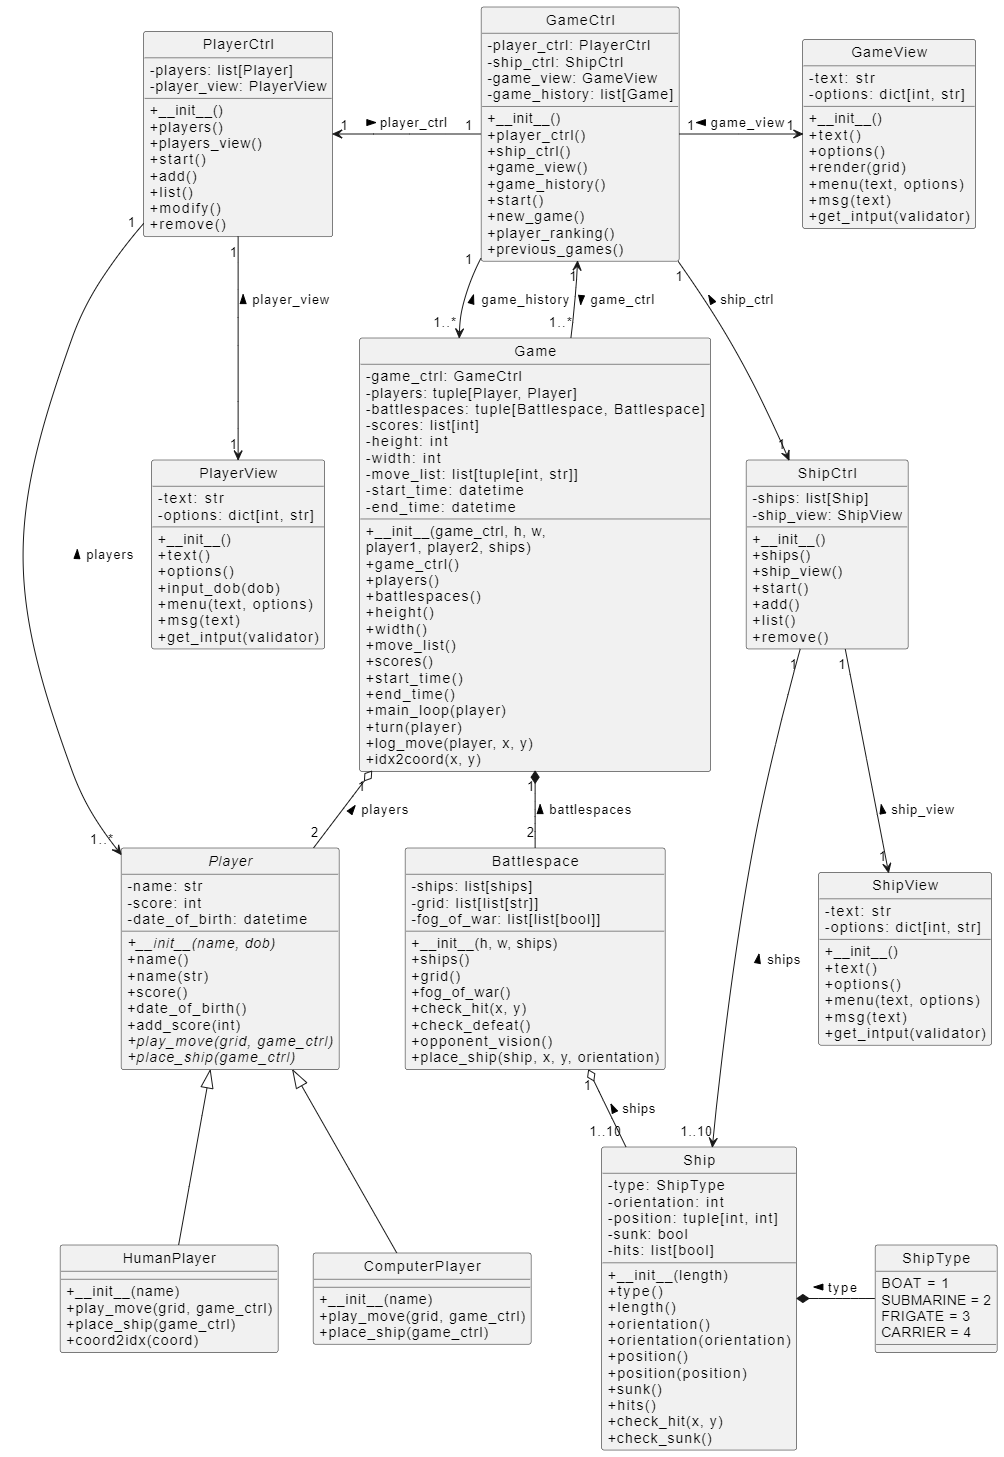
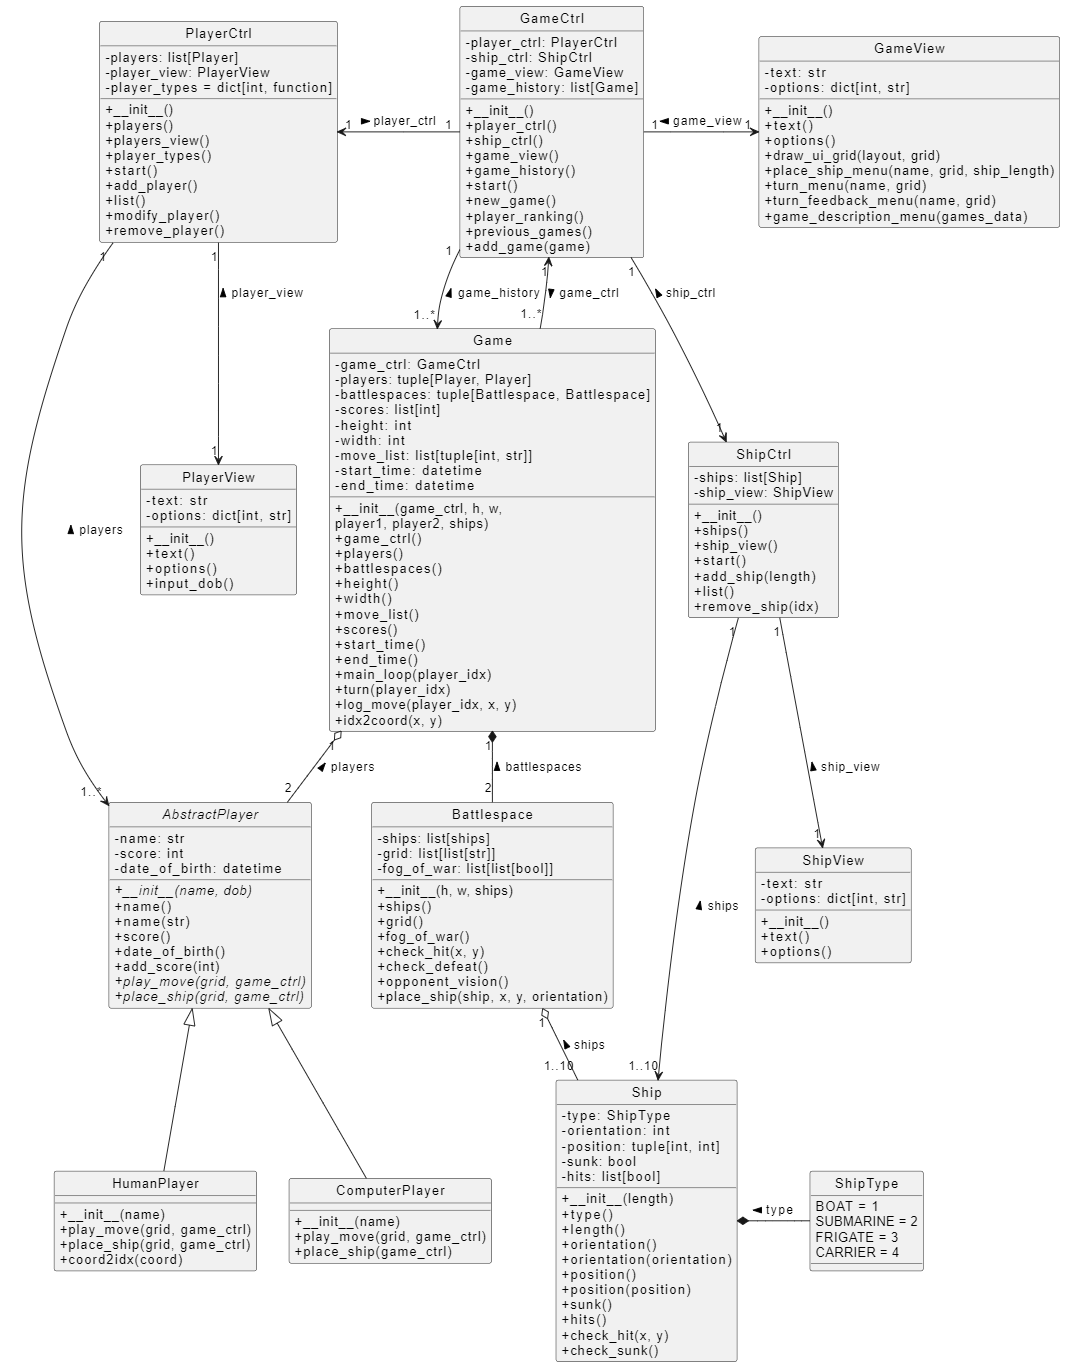
UML atualizado, submetendo

diff --git a/ctrl/playerCtrl.py b/ctrl/playerCtrl.py
@@ -70,7 +70,7 @@ class PlayerCtrl(DAO):
                         "Escolha o jogador a ser modificado:",
                         [p.name for p in self.players])
                     new_name = self.player_view.input("Digite o novo nome do jogador:")
-                    self.modify(old_name, new_name)
+                    self.modify_player(old_name, new_name)
                     self.player_view.msg("Nome alterado com sucesso")
                 except PlayerNotFoundException:
                     self.player_view.error("Jogador não existe")
@@ -115,17 +115,17 @@ class PlayerCtrl(DAO):
                 player.date_of_birth.strftime('%d-%m-%Y') if isinstance(player, HumanPlayer) else 'N/A'
             ])
         self.player_view.info_menu(col_names, data)
-        
 
-    def modify(self, old_name, new_name):
+    def modify_player(self, old_name, new_name):
         """Change player name"""
         if old_name not in [p.name for p in self.players]:
             raise PlayerNotFoundException
         if new_name in [p.name for p in self.players]:
             raise PlayerAlreadyExistsException
-        player = [p for p in self.players if p.name == old_name]
-        player = player[0]
+        idx = [p.name for p in self.players].index(old_name)
+        player = self.players[idx]
         player.name = new_name
+        super().update(idx, player)
 
     def remove_player(self, name):
         """Remove existing player"""
